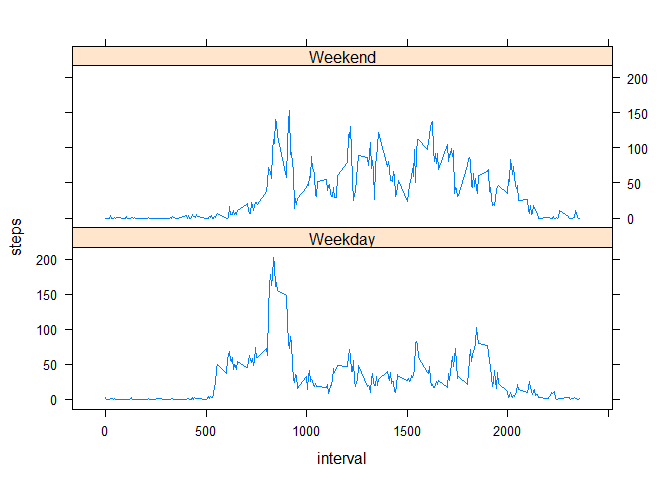
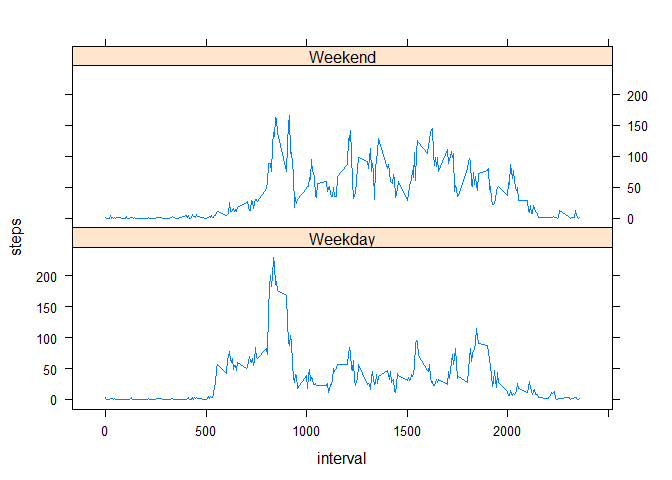
Fixing missing value removal section

diff --git a/PA1_template.html b/PA1_template.html
@@ -214,22 +214,33 @@ data$date &lt;- as.Date(as.character(data$date), &quot;%Y-%m-%d&quot;)</code></p
 <p>There are a lot of missing (<code>NA</code>) values for the steps variable. But how many? Let’s sum the <code>NA</code> values.</p>
 <pre class="r"><code>sum(is.na(data$steps))</code></pre>
 <pre><code>## [1] 2304</code></pre>
-<p>We fill in these missing values by simply setting them to 0.</p>
-<pre class="r"><code>na_removed &lt;- data %&gt;%
-        mutate(steps = replace(steps, is.na(steps), 0))</code></pre>
-<p>Once again, let’s take a look at a histogram of the total steps taken per day with these missing values set to 0. First we create the summarised data set like we did before.</p>
+<p>We fill in these missing values by using the average steps for the interval. We use the <code>head()</code> function to check there are no missing values.</p>
+<pre class="r"><code>na_removed &lt;- data # Copy the dataset to remove NA values
+for (i in steps_per_interval$interval) {
+        na_removed[na_removed$interval == i &amp; is.na(na_removed$steps), ]$steps &lt;- 
+                steps_per_interval$steps[steps_per_interval$interval == i]
+}
+head(na_removed)</code></pre>
+<pre><code>##       steps       date interval
+## 1 1.7169811 2012-10-01        0
+## 2 0.3396226 2012-10-01        5
+## 3 0.1320755 2012-10-01       10
+## 4 0.1509434 2012-10-01       15
+## 5 0.0754717 2012-10-01       20
+## 6 2.0943396 2012-10-01       25</code></pre>
+<p>Once again, let’s take a look at a histogram of the total steps taken per day with these missing values set to the mean for that interva;. First we create the summarised data set like we did before.</p>
 <pre class="r"><code>steps_per_day &lt;- na_removed %&gt;%
         group_by(date) %&gt;%
         summarise(steps = sum(steps, na.rm = TRUE))</code></pre>
 <p>And we plot a histogram like we did before.</p>
-<pre class="r"><code>hist(steps_per_day$steps, col=&quot;cyan&quot;, xlab=&quot;Steps&quot;, main=&quot;Histogram of Steps Per Day with missing values set to 0&quot;)</code></pre>
[1 lines of base64/hex data omitted]
+<pre class="r"><code>hist(steps_per_day$steps, col=&quot;cyan&quot;, xlab=&quot;Steps&quot;, main=&quot;Histogram of Steps Per Day with missing values imputed&quot;)</code></pre>
[1 lines of base64/hex data omitted]
 <p>And finally, let’s calculate the mean and median of the total number of steps taken per day.</p>
 <pre class="r"><code>mean(steps_per_day$steps)</code></pre>
-<pre><code>## [1] 9354.23</code></pre>
+<pre><code>## [1] 10766.19</code></pre>
 <pre class="r"><code>median(steps_per_day$steps)</code></pre>
-<pre><code>## [1] 10395</code></pre>
-<p>We can see there has been no change to the Histogram or the mean and median values due to us setting these missing values to 0.</p>
+<pre><code>## [1] 10766.19</code></pre>
+<p>We can see there has been a slight change to the histogram, mean and median.</p>
 </div>
 <div id="are-there-differences-in-activity-patterns-between-weekdays-and-weekends" class="section level2">
 <h2>Are there differences in activity patterns between weekdays and weekends?</h2>
@@ -242,7 +253,7 @@ data$date &lt;- as.Date(as.character(data$date), &quot;%Y-%m-%d&quot;)</code></p
 <p>Now, we create a time series plot of this data, splitting the data between weekdays and weekends. Here, we use the <code>lattice</code> plotting system. We see there is quite an obvious difference in activity pattern depending on whether the day is in the week or on the weekend.</p>
 <pre class="r"><code>library(lattice)
 xyplot(steps ~ interval | type_of_day, data = weekdays, type = &quot;l&quot;, layout=c(1,2))</code></pre>
[2 lines of base64/hex data omitted]
 </div>
 
 

diff --git a/PA1_template.md b/PA1_template.md
@@ -117,15 +117,29 @@ sum(is.na(data$steps))
 ## [1] 2304
 ```
 
-We fill in these missing values by simply setting them to 0.
+We fill in these missing values by using the average steps for the interval. We use the `head()` function to check there are no missing values.
 
 
 ```r
-na_removed <- data %>%
-        mutate(steps = replace(steps, is.na(steps), 0))
+na_removed <- data # Copy the dataset to remove NA values
+for (i in steps_per_interval$interval) {
+        na_removed[na_removed$interval == i & is.na(na_removed$steps), ]$steps <- 
+                steps_per_interval$steps[steps_per_interval$interval == i]
+}
+head(na_removed)
 ```
 
-Once again, let's take a look at a histogram of the total steps taken per day with these missing values set to 0. First we create the summarised data set like we did before.
+```
+##       steps       date interval
+## 1 1.7169811 2012-10-01        0
+## 2 0.3396226 2012-10-01        5
+## 3 0.1320755 2012-10-01       10
+## 4 0.1509434 2012-10-01       15
+## 5 0.0754717 2012-10-01       20
+## 6 2.0943396 2012-10-01       25
+```
+
+Once again, let's take a look at a histogram of the total steps taken per day with these missing values set to the mean for that interva;. First we create the summarised data set like we did before.
 
 
 ```r
@@ -138,7 +152,7 @@ And we plot a histogram like we did before.
 
 
 ```r
-hist(steps_per_day$steps, col="cyan", xlab="Steps", main="Histogram of Steps Per Day with missing values set to 0")
+hist(steps_per_day$steps, col="cyan", xlab="Steps", main="Histogram of Steps Per Day with missing values imputed")
 ```
 
 ![](PA1_template_files/figure-html/unnamed-chunk-8-1.png)<!-- -->
@@ -151,7 +165,7 @@ mean(steps_per_day$steps)
 ```
 
 ```
-## [1] 9354.23
+## [1] 10766.19
 ```
 
 ```r
@@ -159,10 +173,10 @@ median(steps_per_day$steps)
 ```
 
 ```
-## [1] 10395
+## [1] 10766.19
 ```
 
-We can see there has been no change to the Histogram or the mean and median values due to us setting these missing values to 0.
+We can see there has been a slight change to the histogram, mean and median.
 
 ## Are there differences in activity patterns between weekdays and weekends?
 
